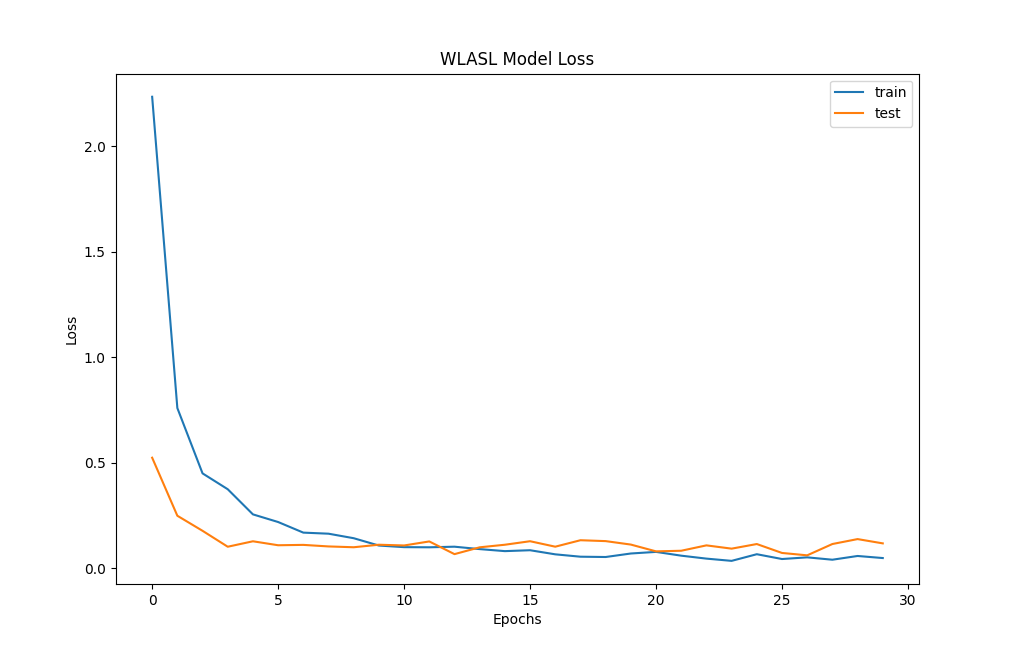
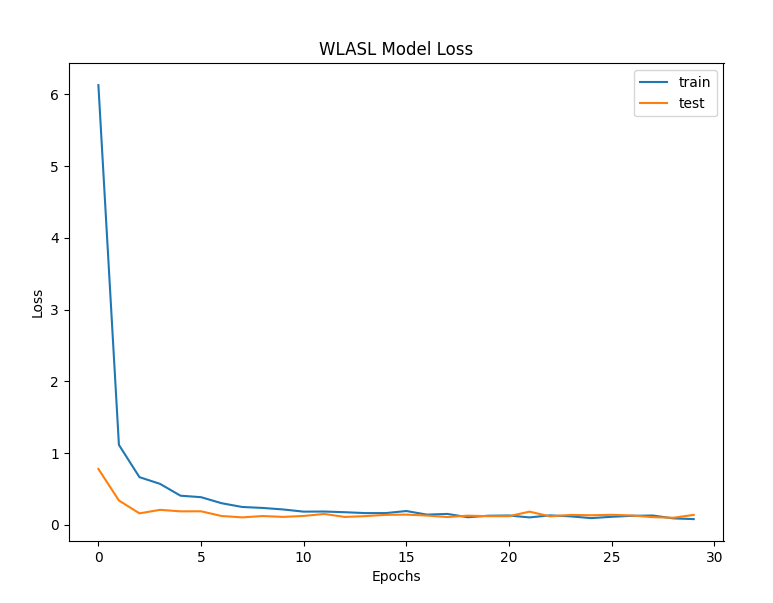
Updated model architecture and descriptions. Implemented ASL prediction.

diff --git a/app/gesture.py b/app/gesture.py
@@ -49,9 +49,13 @@ EMOTION_INPUT_SIZE = (48, 48)  # Expected input size for the emotion model.
 # Gesture model for hand gestures.
 GESTURE_MODEL_PATH = os.path.join(BASE_DIR, "models", "gestures", "gesture_model.keras")
 GESTURE_INPUT_SIZE = (128, 128)
+# Gesture model for hand gestures.
+WLASL_MODEL_PATH = os.path.join(BASE_DIR, "models", "asl", "asl_model.keras")
+WLASL_INPUT_SIZE = (128, 128)
 
 # Gesture classes for the hand model.
 GESTURE_CLASSES = ['palm', 'l', 'fist', 'fist_moved', 'thumb', 'index', 'ok', 'palm_moved', 'c', 'down']
+WLASL_CLASSES = ['0', '1', '2', '3', '4', '5', '6', '7', '8', '9', 'A', 'B', 'C', 'D', 'E', 'F', 'G', 'H', 'I', 'J', 'K', 'L', 'M', 'N', 'O', 'P', 'Q', 'R', 'S', 'T', 'U', 'V', 'W', 'X', 'Y', 'Z']
 
 #####################
 # Helper function to load and tint an SVG icon.
@@ -205,6 +209,10 @@ class HandDetectorThread(QThread):
         self.gesture_model = load_model(GESTURE_MODEL_PATH)
         self.gesture_classes = GESTURE_CLASSES
 
+        # Load the ASL model (Keras) and set gesture classes.
+        self.asl_model = load_model(WLASL_MODEL_PATH)
+        self.asl_model_classes = WLASL_CLASSES
+
     def run(self):
         with mss.mss() as sct:
             while self.running:
@@ -264,14 +272,24 @@ class HandDetectorThread(QThread):
                         input_img = np.expand_dims(input_img, axis=0)
 
                         try:
-                            preds = self.gesture_model.predict(input_img)
-                            gesture_index = np.argmax(preds, axis=1)[0]
-                            gesture_label = f"Hand - {self.gesture_classes[gesture_index]}"
+                            # Use the same preprocessed input for both models
+                            gesture_preds = self.gesture_model.predict(input_img)
+                            gesture_index = np.argmax(gesture_preds, axis=1)[0]
+                            gesture_name = self.gesture_classes[gesture_index]
+                            
+                            # Also predict with ASL model using same input
+                            asl_preds = self.asl_model.predict(input_img)
+                            asl_index = np.argmax(asl_preds, axis=1)[0]
+                            asl_name = self.asl_model_classes[asl_index]
+                            
+                            # Combine predictions into one label
+                            combined_label = f"Gesture: {gesture_name} | ASL: {asl_name}"
+                            
                         except Exception as e:
-                            print("Gesture model prediction error:", e)
-                            gesture_label = "Hand - Unknown"
+                            print("Model prediction error:", e)
+                            combined_label = "Hand - Unknown"
 
-                        hand_boxes.append([x_min_orig, y_min_orig, w_box_orig, h_box_orig, gesture_label, landmarks])
+                        hand_boxes.append([x_min_orig, y_min_orig, w_box_orig, h_box_orig, combined_label, landmarks])
                 self.handsDetected.emit(hand_boxes)
                 self.msleep(100)
 

diff --git a/model_builders/wlasl_model.py b/model_builders/wlasl_model.py
@@ -3,14 +3,13 @@ from tensorflow import keras
 from tensorflow.keras import layers
 from tensorflow.keras.preprocessing import image_dataset_from_directory
 import matplotlib.pyplot as plt
-import json
 import os
 
-# Define BASE_DIR and dataset path
-BASE_DIR = os.path.dirname(os.path.abspath(__file__))
+# Fix BASE_DIR to point to project root
+BASE_DIR = os.path.dirname(os.path.dirname(os.path.abspath(__file__)))
 DATA_DIR = os.path.join(BASE_DIR, "data", "asl_dataset")
 
-# Load dataset with 80% training, 10% validation, 10% test
+# Load dataset with grayscale images
 batch_size = 32
 img_size = (128, 128)
 
@@ -20,13 +19,9 @@ train_ds = image_dataset_from_directory(
     subset="training",
     seed=123,
     image_size=img_size,
-    batch_size=batch_size
+    batch_size=batch_size,
+    color_mode='grayscale'  # Changed to grayscale
 )
-
-# Save class names using BASE_DIR
-class_names_path = os.path.join(BASE_DIR, "asl_class_names.json")
-with open(class_names_path, "w") as f:
-    json.dump(train_ds.class_names, f)
 
 val_ds = image_dataset_from_directory(
     DATA_DIR,
@@ -34,7 +29,8 @@ val_ds = image_dataset_from_directory(
     subset="validation",
     seed=123,
     image_size=img_size,
-    batch_size=batch_size
+    batch_size=batch_size,
+    color_mode='grayscale'  # Changed to grayscale
 )
 
 test_ds = image_dataset_from_directory(
@@ -43,13 +39,13 @@ test_ds = image_dataset_from_directory(
     subset="validation",
     seed=456,
     image_size=img_size,
-    batch_size=batch_size
+    batch_size=batch_size,
+    color_mode='grayscale'  # Changed to grayscale
 )
 
-# Define the CNN model
+# Define the CNN model with single channel input - removed rescaling layer
 model = keras.Sequential([
-    layers.Rescaling(1./255, input_shape=(128, 128, 3)),  # Modified input shape
-    layers.Conv2D(32, (3, 3), activation='relu'),
+    layers.Conv2D(32, (3, 3), activation='relu', input_shape=(128, 128, 1)),
     layers.MaxPooling2D((2, 2)),
     layers.Conv2D(64, (3, 3), activation='relu'),
     layers.MaxPooling2D((2, 2)),
@@ -83,6 +79,7 @@ plt.xlabel('Epochs')
 plt.legend(['train', 'test'])
 plt.show()
 
-# Save model using BASE_DIR to build a cross-platform path
+# Save model to correct path relative to project root
 model_save_path = os.path.join(BASE_DIR, "app", "models", "asl", "asl_model.keras")
 model.save(model_save_path)
+print(f"Model saved to: {model_save_path}")

diff --git a/model_builders/gesture_classifier.py b/model_builders/gesture_classifier.py
@@ -8,7 +8,7 @@ import numpy as np
 import cv2
 
 # Define parameters
-BASE_DIR = os.path.dirname(os.path.abspath(__file__))
+BASE_DIR = os.path.dirname(os.path.dirname(os.path.abspath(__file__)))
 DATASET_PATH = os.path.join("data", "leapGestRecog")
 IMG_SIZE = (128, 128)  # Modified
 BATCH_SIZE = 32

diff --git a/model_builders/facial_expression.py b/model_builders/facial_expression.py
@@ -17,7 +17,7 @@ import seaborn as sns
 import os
 
 # Update CSV path using os.path.join
-BASE_DIR = os.path.dirname(os.path.abspath(__file__))
+BASE_DIR = os.path.dirname(os.path.dirname(os.path.abspath(__file__)))
 
 # %%
 df = pd.read_csv(os.path.join(BASE_DIR, "data", "fer2013.csv"))
